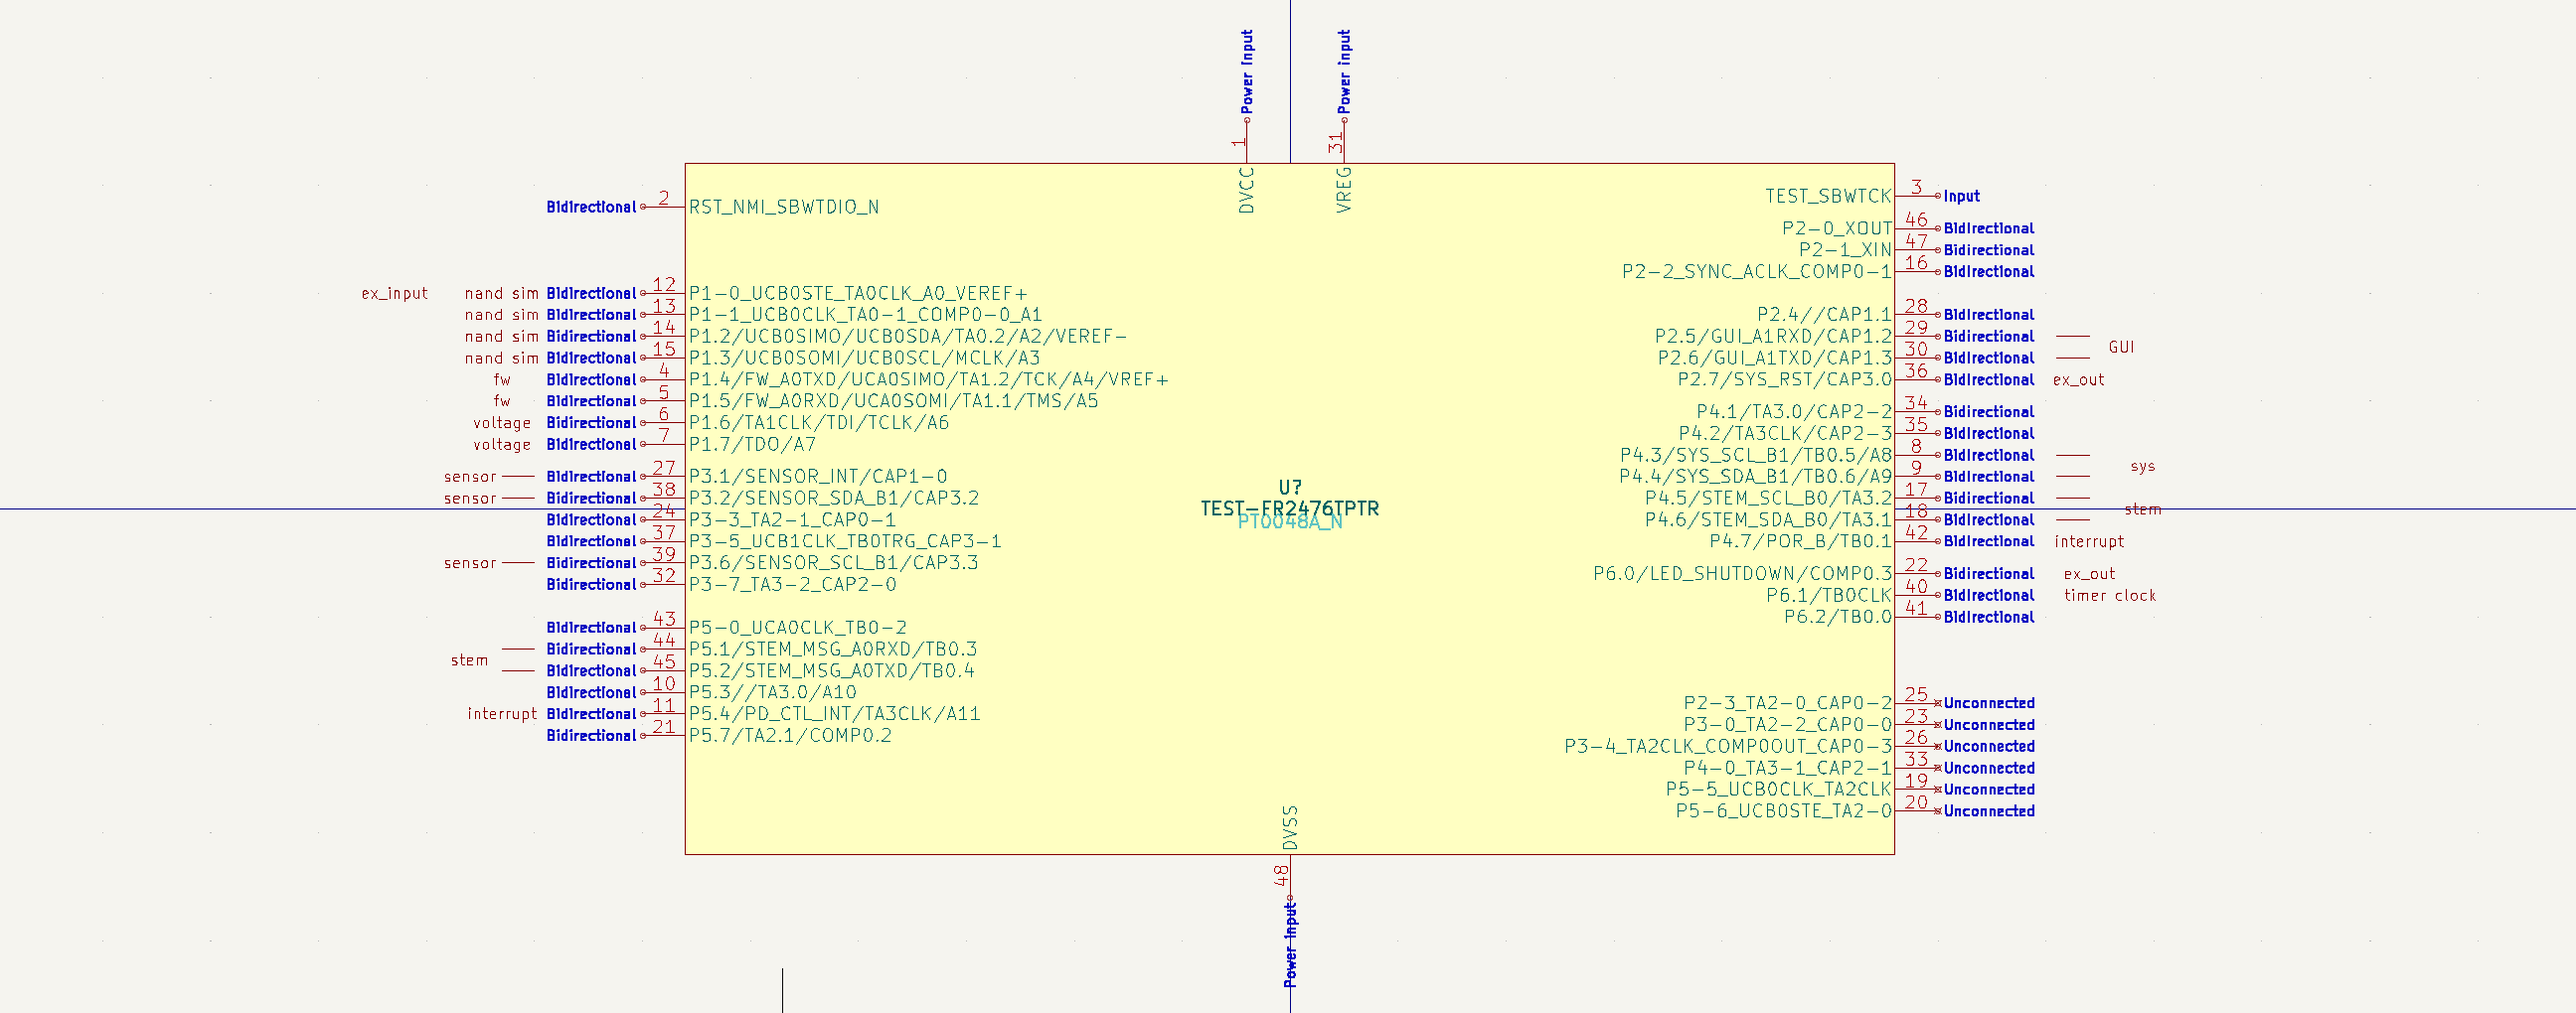
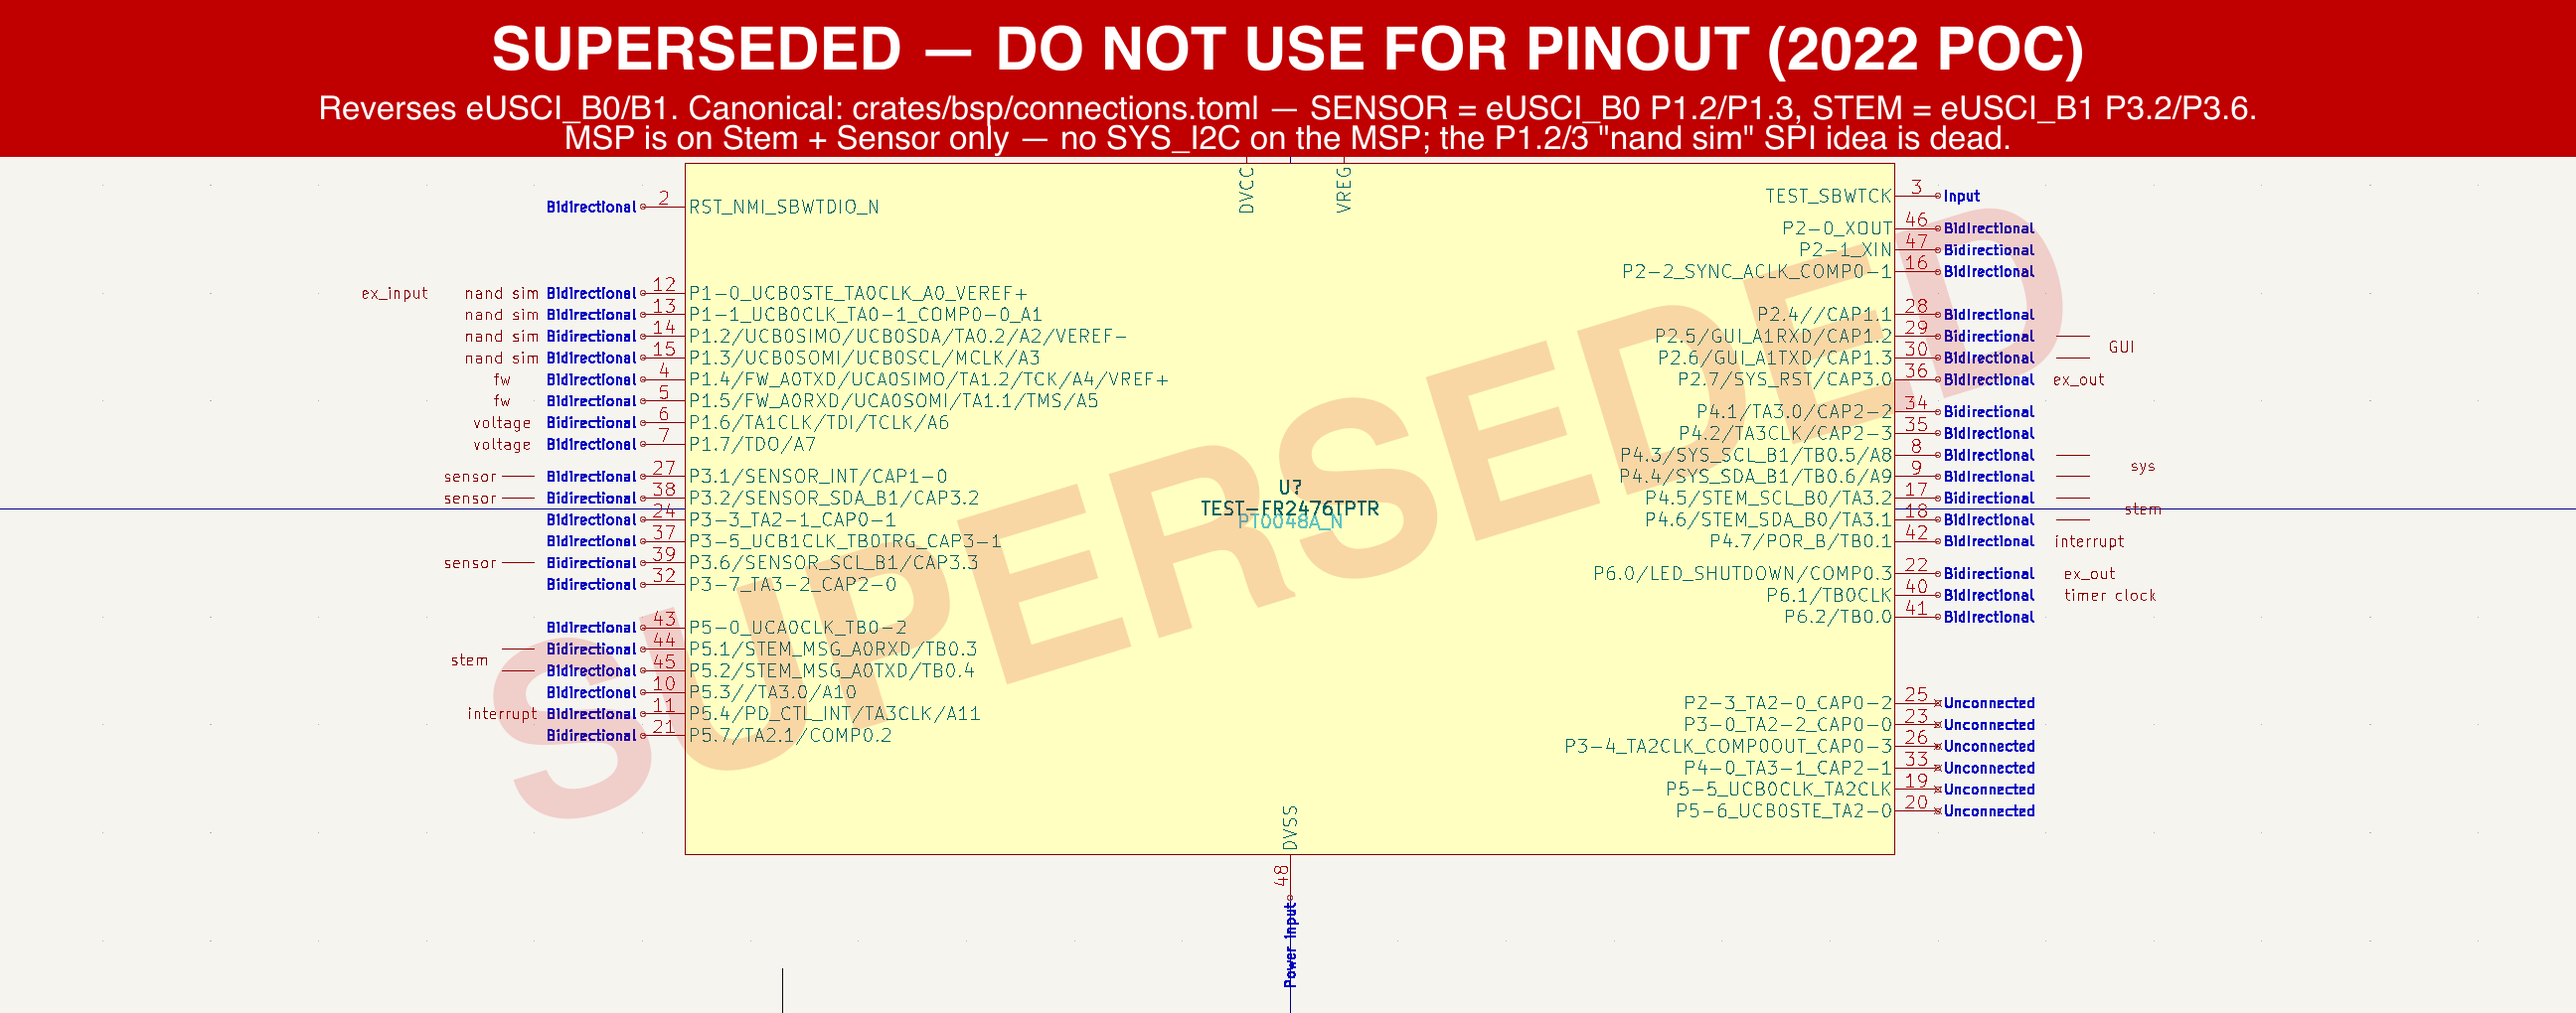
feat(design): Superseeded I2C bus allocation

Changed region(s): [[0.0, 0.0, 1.0, 0.152], [0.1875, 0.1824, 0.8125, 0.8206]]

diff --git a/msp-ex/SUPERSEDED.md b/msp-ex/SUPERSEDED.md
@@ -1,0 +1,37 @@
+# ⚠ SUPERSEDED — `msp-ex/` is a 2022 POC, not the current design
+
+This whole directory is an **early proof-of-concept** (KiCad symbol exported by Eeschema
+**2022/10/01**, C firmware for PlatformIO, `slau802.pdf`). It was dropped into the repo on
+2026-08-29 as a starting reference. **Do not use it for pinout or architecture** — the shipping
+`diag`/`prod` firmware diverged from it deliberately.
+
+## What's wrong in `TEST-FR2476.png` / `TEST-FR2476TPTR.svg`
+
+The symbol **reverses the eUSCI_B0/B1 roles** and shows buses that don't exist on the MSP:
+
+| | This POC render (WRONG) | Canonical — `crates/bsp/connections.toml` |
+|---|---|---|
+| **SENSOR** (MSP master) | eUSCI_B1, P3.2/P3.6 (`SENSOR_SDA_B1`) | **eUSCI_B0, P1.2/P1.3** |
+| **STEM** (MSP slave) | eUSCI_B0-alt, P4.5/P4.6 (`STEM_SDA_B0`) | **eUSCI_B1, P3.2/P3.6** |
+| **SYS_I2C** | on MSP pins P4.3/P4.4 (`SYS_SDA_B1`) | **not on the MSP at all** |
+| **P1.2/P1.3** | "nand sim" (SPI-NAND idea) | the SENSOR bus |
+
+It's also internally inconsistent (SENSOR *and* SYS both drawn on eUSCI_B1 — the same peripheral).
+
+## The canonical facts
+
+- **MSP is on exactly two I²C buses — Stem + Sensor — and nothing else.** No SYS_I2C, no PMIC bus.
+- **Stem** = eUSCI_B1 (P3.2/P3.6), MSP always **slave** (SoM/RP2040 masters).
+- **Sensor** = eUSCI_B0 (P1.2/P1.3), master **switches** (MSP in Sensing / SoM in Passive).
+- **SYS_I2C** is a **SoM-side** bus (RTC/EEPROM/codec on the bench carrier's I²C2; PMIC on I²C1).
+- The **"unified I²C"** idea (all devices on one bus) and the **"nand sim"** SPI-NAND idea are both **dead**.
+
+Sources of truth: `crates/bsp/connections.toml` (pin registry) and
+`ziloo/Hardware/stem/STEM-EXPANDER.md` ("MSP430 supervisor bus scope"). The PNG/SVG here carry a
+`SUPERSEDED` banner pointing back to these.
+
+## Open task
+
+The **original KiCad project** that produced this symbol is **not in any repo** (only the exports are
+here). Locating it is tracked in `../NOTES.md` — if found, it should be corrected to match
+`connections.toml`, or formally retired.

diff --git a/NOTES.md b/NOTES.md
@@ -284,4 +284,20 @@ schematic (`buttons.rs`).
 - [ ] Wire `examples/*` onto `crates/sched`.
 - [ ] `connections.toml` package field `RHB VQFN-40` — confirm the real bob-929 package.
 - [ ] Verify **FR2433** I²C pins from *its* datasheet before trusting P1.2/P1.3 there.
+- [x] **Banner the SUPERSEDED `TEST-FR2476` POC render** (2026-09-24) — the 2022 Eeschema symbol
+      reverses the eUSCI_B0/B1 roles (SENSOR on B1/P3.2-6, STEM on B0-alt/P4.5-6), shows a
+      **SYS_I2C on MSP pins P4.3/P4.4 that doesn't exist** (MSP is Stem + Sensor ONLY), and reserves
+      P1.2/P1.3 for the dead "nand sim" SPI idea. DONE: red "SUPERSEDED — DO NOT USE FOR PINOUT" banner
+      + diagonal watermark rasterised onto all three PNGs (`TEST-FR2476.png`, `msp-ex/TEST-FR2476.png`,
+      `msp-ex/TEST-FR2476TPTR.png`) via `rsvg-convert` (originals recoverable from git); SVG `<title>`/
+      `<desc>` marked superseded; `msp-ex/SUPERSEDED.md` written; `HARDWARE.md` caption added. Canonical
+      pin map = `crates/bsp/connections.toml`; bus roles = `ziloo/Hardware/stem/STEM-EXPANDER.md`
+      "MSP430 supervisor bus scope".
+- [ ] **Locate the original KiCad designs** for the MSP supervisor (and related bob-929/ziloo boards)
+      — the project that produced `TEST-FR2476TPTR.svg` was exported by **Eeschema on 2022/10/01** but
+      is **not in ANY repo in the Talki tree** (searched all 51 `.kicad_sch/.kicad_sym/.lib/.dcm`:
+      none mention FR2476 / MSP430FR24 / TEST-FR2476 / PT0048 / SENSOR_SDA_B1). Only the PNG/SVG exports
+      live in `msp-ex/`. Find the source project (Henrik's machine / an un-imported repo / old backup),
+      import it into the tree, then correct it to `connections.toml` or formally retire it. (Henrik,
+      2026-09-24.)
 - [ ] Push `main` to origin (1 commit ahead) when ready.

diff --git a/HARDWARE.md b/HARDWARE.md
@@ -15,6 +15,12 @@ Pinout on the launchpad reserves pins for
 
 ![MSP430 symbol](./TEST-FR2476.png)
 
+> ⚠ **The symbol above is a SUPERSEDED 2022 POC — do not use it for pinout.** It reverses the
+> eUSCI_B0/B1 roles and shows buses the MSP doesn't have. Canonical pin map:
+> [crates/bsp/connections.toml](./crates/bsp/connections.toml) — **SENSOR = eUSCI_B0 (P1.2/P1.3),
+> STEM = eUSCI_B1 (P3.2/P3.6); MSP is on Stem + Sensor only (no SYS_I2C)**. See
+> [msp-ex/SUPERSEDED.md](./msp-ex/SUPERSEDED.md).
+
 Drive it with 3V3 from Raspberry Pi.
 
 A motion sensor MC6470 is connected to SENSOR I2C.
